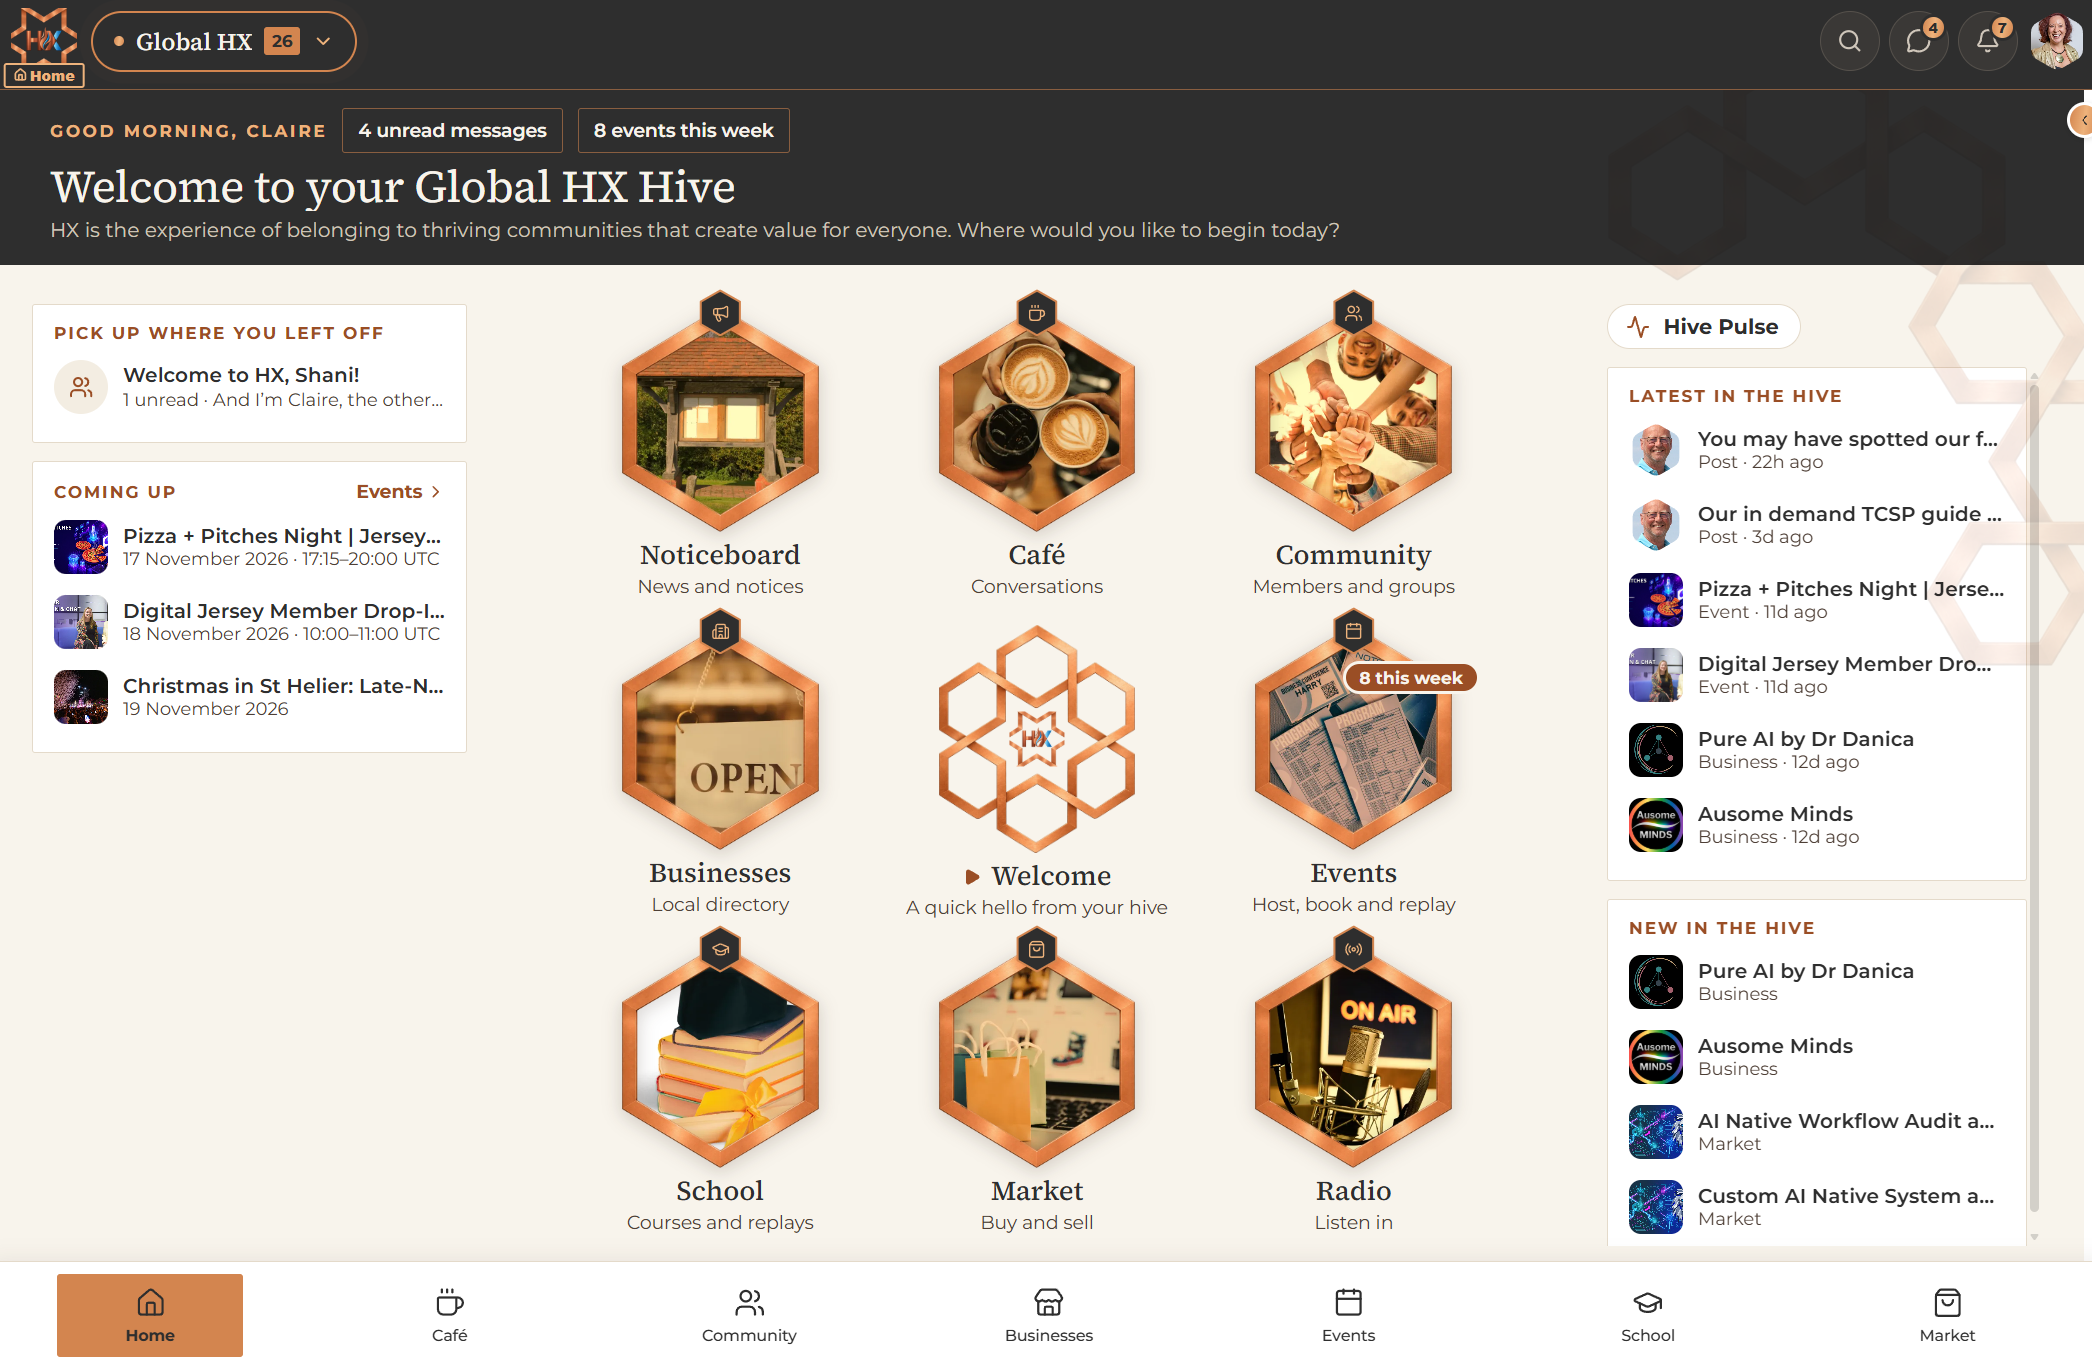
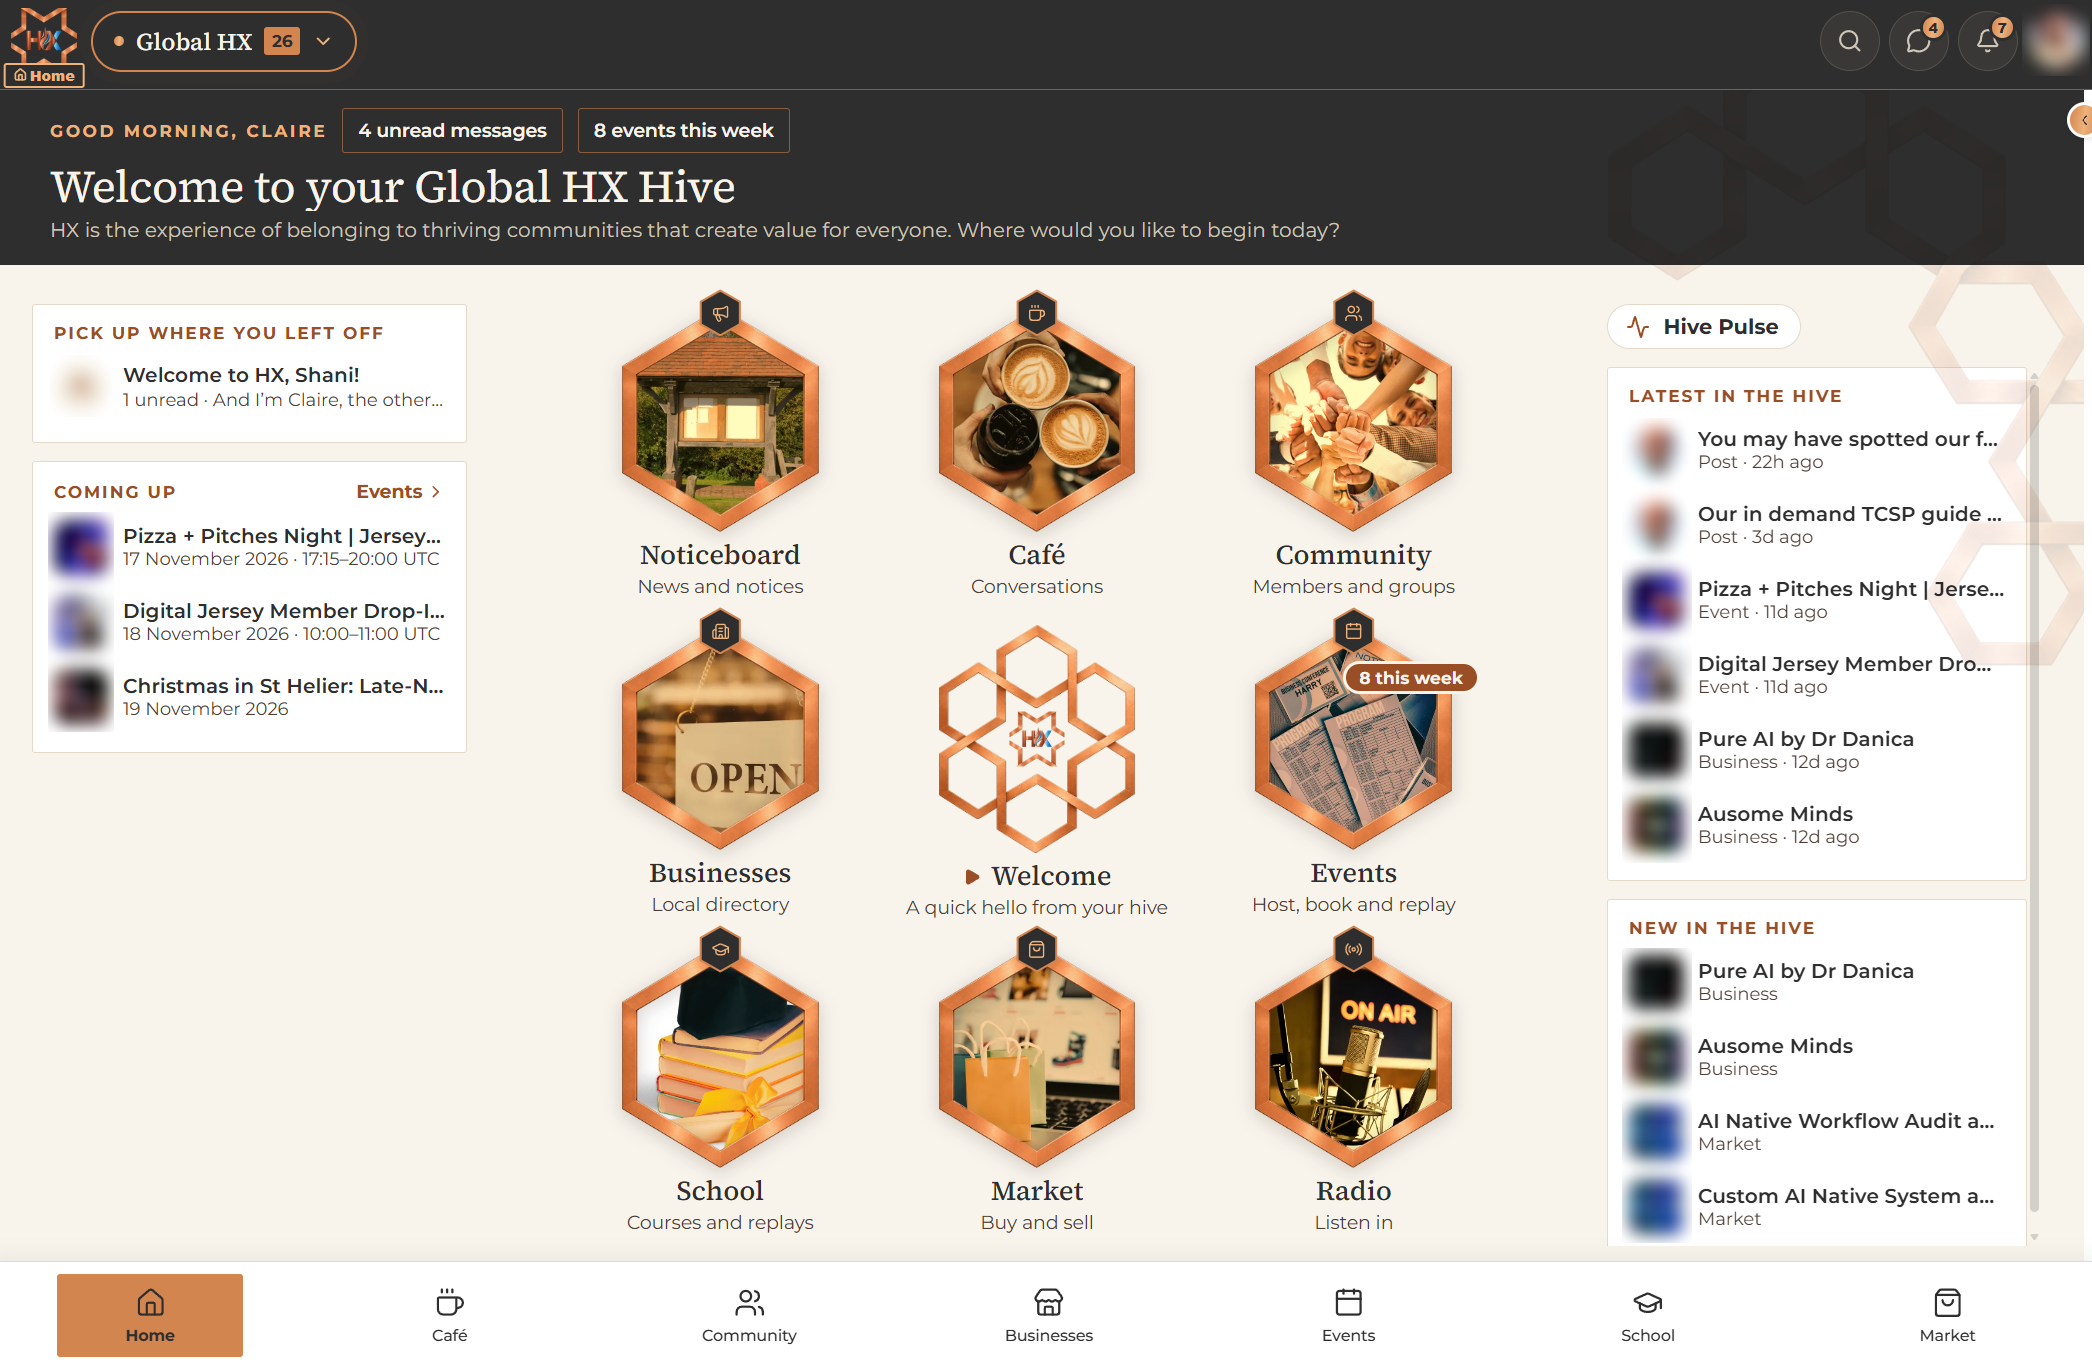
HX page: blur faces, CX/DX/EX triangle, linked in-action phones, Discover Hives
- Faces blurred in the home screenshot; faces and names blurred on the
  Your Network map
- CX / DX / EX triangle in Why HX (text wraps around it on desktop)
- In-action phones link to /hives, /events and /courses
- Members card button: Discover Hives, linking to /hives

diff --git a/src/content/hx-hive-experience.ts b/src/content/hx-hive-experience.ts
@@ -68,9 +68,9 @@ export const hxLanding = typeset({
     caption: 'Built for connection. Live on mobile and desktop.',
     // Real app screens on phone, shown under the home screen.
     inAction: [
-      { label: 'HXCafé in Action', img: 'hx-phone-cafe', text: 'A chronological feed with Stories and Sparks.', alt: 'HXCafé on a phone: Stories from members, Sparks, a post composer and the latest post in the feed.' },
-      { label: 'HXEvents in Action', img: 'hx-phone-events', text: 'Ticketed events with details, speakers, sponsors and attendees.', alt: 'HXEvents on a phone: a hybrid conference page with date, venue, places taken, event tabs and ticket price.' },
-      { label: 'HXSchool in Action', img: 'hx-phone-school', text: 'Courses with progress tracking and a certificate when you finish.', alt: 'HXSchool on a phone: a course page with lessons, enrolment, a progress bar and what is included.' },
+      { label: 'HXCafé in Action', img: 'hx-phone-cafe', href: links.hxHives, text: 'A chronological feed with Stories and Sparks.', alt: 'HXCafé on a phone: Stories from members, Sparks, a post composer and the latest post in the feed.' },
+      { label: 'HXEvents in Action', img: 'hx-phone-events', href: links.hxEvents, text: 'Ticketed events with details, speakers, sponsors and attendees.', alt: 'HXEvents on a phone: a hybrid conference page with date, venue, places taken, event tabs and ticket price.' },
+      { label: 'HXSchool in Action', img: 'hx-phone-school', href: links.hxCourses, text: 'Courses with progress tracking and a certificate when you finish.', alt: 'HXSchool on a phone: a course page with lessons, enrolment, a progress bar and what is included.' },
     ],
     homeAlt: 'The HX home screen: a honeycomb of HX apps beside a list of upcoming events and recent conversations.',
     hivesAlt: 'The HX Your Hives switcher, listing the Hives a member belongs to so they can move between them.',
@@ -133,6 +133,7 @@ export const hxLanding = typeset({
           'Retain 100% community ownership with zero ad intrusion.',
         ],
         cta: 'Start Your Hive',
+        href: links.hx,
       },
       {
         icon: 'heart',
@@ -144,7 +145,8 @@ export const hxLanding = typeset({
           'Discover events, learn new skills, share your expertise and support businesses and causes you care about.',
           'Be seen and valued for your contributions, not how much you pay for visibility.',
         ],
-        cta: 'Experience the Hive',
+        cta: 'Discover Hives',
+        href: links.hxHives,
       },
     ],
   },

diff --git a/src/data/site.ts b/src/data/site.ts
@@ -33,6 +33,7 @@ export const links = {
   hx: 'https://hive.elevatedexperience.vip/',
   hxEvents: 'https://hive.elevatedexperience.vip/events',
   hxHives: 'https://hive.elevatedexperience.vip/hives',
+  hxCourses: 'https://hive.elevatedexperience.vip/courses',
   hxPricing: 'https://hive.elevatedexperience.vip/pricing',
   hxMicrosoftStore: 'https://apps.microsoft.com/detail/9NKRSD0B4FPH',
   hxGooglePlay: 'https://play.google.com/store/apps/details?id=com.elevatedexperience.hive',
